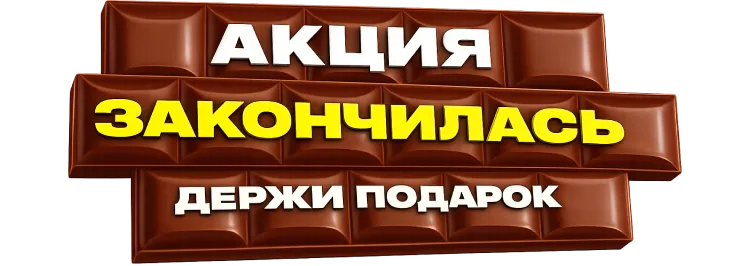
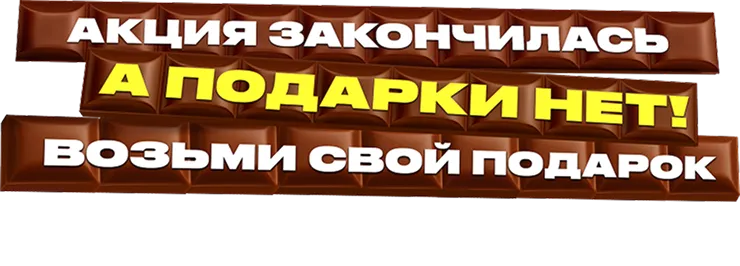
add presents

diff --git a/assets/css/styles.min.css b/assets/css/styles.min.css
@@ -1,1 +1,1 @@
-:root{--font: 'drukwide', sans-serif;--white: #ffffff;--black: #000000;--brown: #7e3d23;--red: #e30613;--red-bg: #c32822}:root{font-synthesis:none;text-rendering:optimizeLegibility;-webkit-font-smoothing:antialiased;-moz-osx-font-smoothing:grayscale;outline:none;-webkit-tap-highlight-color:rgba(0,0,0,0);-webkit-backface-visibility:hidden;backface-visibility:hidden}*,*:before,*:after{padding:0;margin:0;-webkit-box-sizing:border-box;box-sizing:border-box;-webkit-tap-highlight-color:rgba(0,0,0,0)}html,body{height:100%;z-index:0}body{width:100%;position:relative;overflow-x:hidden;overflow-y:auto;-ms-scroll-chaining:none;overscroll-behavior:none;-webkit-overflow-scrolling:auto;font-family:var(--font);background:var(--brown);color:var(--white)}img{display:block;-o-object-fit:cover;object-fit:cover;-webkit-user-select:none;-moz-user-select:none;-ms-user-select:none;user-select:none}h1,h2,h3,h4,h5,h6,strong{color:inherit}b{font-family:var(--font);font-weight:600}a{color:inherit;text-decoration:none}ul,ol,menu{list-style:none}button{position:relative;border:none;cursor:pointer;background:none;color:inherit}button:disabled{cursor:auto;pointer-events:none}.main{display:-webkit-box;display:-ms-flexbox;display:flex;-webkit-box-pack:center;-ms-flex-pack:center;justify-content:center;-webkit-box-align:start;-ms-flex-align:start;align-items:flex-start;-ms-flex-line-pack:start;align-content:flex-start;position:relative;width:100%;height:auto;min-height:calc(100svh - 120px);overflow:hidden;z-index:1}@media(max-height: 759px){.main{min-height:calc(100svh - 100px)}}.container{display:block;position:relative;margin:0 auto;width:100%;max-width:1200px;z-index:1}@media(max-width: 1279px){.container{max-width:100%;padding:0px 20px}}.preloader{display:-webkit-box;display:-ms-flexbox;display:flex;position:fixed;left:0px;top:0px;width:100%;height:100%;min-height:100dvh;-ms-flex-wrap:wrap;flex-wrap:wrap;-webkit-box-pack:center;-ms-flex-pack:center;justify-content:center;-webkit-box-align:center;-ms-flex-align:center;align-items:center;-ms-flex-line-pack:center;align-content:center;background:var(--brown);z-index:1000;opacity:1;visibility:visible;pointer-events:all;-webkit-transition:opacity .6s ease-out,visibility .6s ease-out;transition:opacity .6s ease-out,visibility .6s ease-out}.preloader:before{content:"";display:block;width:50px;height:50px;border-radius:50px;border-left:5px solid var(--white);border-right:5px solid rgba(0,0,0,0);border-top:5px solid var(--white);border-bottom:5px solid rgba(0,0,0,0);-webkit-animation:spin .4s linear infinite;animation:spin .4s linear infinite}.preloader.hidden{opacity:0;visibility:hidden;pointer-events:none}@-webkit-keyframes spin{from{-webkit-transform:rotate(0deg);transform:rotate(0deg)}to{-webkit-transform:rotate(360deg);transform:rotate(360deg)}}@keyframes spin{from{-webkit-transform:rotate(0deg);transform:rotate(0deg)}to{-webkit-transform:rotate(360deg);transform:rotate(360deg)}}@font-face{font-family:"drukwide";src:url("../fonts/druk-wide-super.woff2") format("woff2"),url("../fonts/druk-wide-super.woff") format("woff");font-weight:500;font-style:normal}.button{display:-webkit-box;display:-ms-flexbox;display:flex;position:relative;width:100%;max-width:288px;-ms-flex-wrap:wrap;flex-wrap:wrap;-webkit-box-pack:center;-ms-flex-pack:center;justify-content:center;-webkit-box-align:center;-ms-flex-align:center;align-items:center;-ms-flex-line-pack:center;align-content:center;padding:21px 58px calc(21px - .208em) 58px;background:var(--white);color:var(--red);border-radius:27px 0px 27px 0px;-webkit-transform:translate(0px, 20px);-ms-transform:translate(0px, 20px);transform:translate(0px, 20px);-webkit-transition:.5s ease-in-out;transition:.5s ease-in-out;opacity:0;cursor:auto;font-family:var(--font);text-transform:uppercase;pointer-events:none;font-size:18px;line-height:1.16;text-align:center;-webkit-box-shadow:0 8px 17px rgba(0,0,0,.1),0 32px 32px rgba(0,0,0,.09),0 71px 43px rgba(0,0,0,.05),0 127px 51px rgba(0,0,0,.01);box-shadow:0 8px 17px rgba(0,0,0,.1),0 32px 32px rgba(0,0,0,.09),0 71px 43px rgba(0,0,0,.05),0 127px 51px rgba(0,0,0,.01)}.hero{display:-webkit-box;display:-ms-flexbox;display:flex;position:relative;width:100%;height:auto;min-height:calc(100svh - 120px);-ms-flex-wrap:wrap;flex-wrap:wrap;-webkit-box-pack:center;-ms-flex-pack:center;justify-content:center;-webkit-box-align:center;-ms-flex-align:center;align-items:center;-ms-flex-line-pack:center;align-content:center;margin:auto;overflow:hidden}.hero:before{content:"";position:absolute;width:124vw;height:124vw;max-width:555px;max-height:555px;background:url("../img/svg/bg.svg") no-repeat center center/cover}@media(max-height: 759px)and (max-width: 374px){.hero:before{-webkit-transform:translate(0px, -50px);-ms-transform:translate(0px, -50px);transform:translate(0px, -50px)}}@media(max-height: 759px){.hero{min-height:calc(100svh - 100px)}}.hero__images{display:-webkit-box;display:-ms-flexbox;display:flex;position:relative;width:100%;min-height:460px;max-width:440px;-webkit-box-orient:vertical;-webkit-box-direction:normal;-ms-flex-direction:column;flex-direction:column;-webkit-box-pack:center;-ms-flex-pack:center;justify-content:center;-webkit-box-align:center;-ms-flex-align:center;align-items:center;-ms-flex-line-pack:center;align-content:center;padding-top:94px;padding-bottom:44px}@media(max-width: 374px){.hero__images{padding-top:88px}}@media(max-height: 759px){.hero__images{padding-bottom:0px}}.hero-image-title{display:none;width:84.0909%;max-width:370px}@media(max-height: 759px){.hero-image-title{max-width:286px}}.body[data-state=pending] .hero-image-title.start,.body[data-state=start] .hero-image-title.start{display:block}.body[data-state=finish] .hero-image-title.finish{display:block}.hero-image{position:relative;width:90%;max-width:410px;z-index:2}@media(max-width: 374px){.hero-image{margin-top:-22px}}@media(max-height: 759px){.hero-image{max-width:315px;margin-top:-22px}}.hero-image-left{display:block;position:absolute;left:10px;top:50%;z-index:3;width:50px}@media(max-height: 759px)and (max-width: 374px){.hero-image-left{top:62%;width:40px}}.hero-image-right{display:block;position:absolute;right:0px;top:50%;z-index:1;width:95px}@media(max-height: 759px)and (max-width: 374px){.hero-image-right{top:60%}}.header{display:-webkit-box;display:-ms-flexbox;display:flex;-webkit-box-align:start;-ms-flex-align:start;align-items:flex-start;-webkit-box-pack:justify;-ms-flex-pack:justify;justify-content:space-between;gap:26px;position:absolute;left:0px;top:0px;width:100%;height:auto;z-index:99;padding:20px}.header__hashtag{width:48.5%;max-width:194px}.header__logo{display:-webkit-box;display:-ms-flexbox;display:flex;width:45%;max-width:180px;-webkit-box-orient:vertical;-webkit-box-direction:normal;-ms-flex-direction:column;flex-direction:column;gap:4px;-webkit-box-pack:center;-ms-flex-pack:center;justify-content:center;-webkit-box-align:center;-ms-flex-align:center;align-items:center;-ms-flex-line-pack:center;align-content:center}.header__logo img{width:100%}.header__logo span{font-size:11px;text-align:center;line-height:1.2;letter-spacing:.05em}@media(max-width: 374px){.header__logo span{font-size:10px}}.footer{display:-webkit-box;display:-ms-flexbox;display:flex;position:relative;width:100%;height:120px;z-index:2}@media(max-height: 759px){.footer{height:100px}}.footer-content{display:-webkit-box;display:-ms-flexbox;display:flex;-webkit-box-pack:center;-ms-flex-pack:center;justify-content:center;-webkit-box-align:end;-ms-flex-align:end;align-items:flex-end;padding:40px 20px;position:absolute;overflow:hidden;width:100%;max-width:100%;height:350px;bottom:0px;background:url("../img/svg/footer-bg.svg") no-repeat center top;background-size:1104px 100%}@media(min-width: 1104px){.footer-content{background-size:100% 100%}}@media(max-height: 759px){.footer-content{height:200px}}.body.loaded[data-state=start] .footer .button,.body.loaded[data-state=finish] .footer .button{cursor:pointer;pointer-events:all;opacity:1;-webkit-transform:translate(0px, 0px);-ms-transform:translate(0px, 0px);transform:translate(0px, 0px)}
+:root{--font: 'drukwide', sans-serif;--white: #ffffff;--black: #000000;--brown: #7e3d23;--red: #e30613;--red-bg: #c32822}:root{font-synthesis:none;text-rendering:optimizeLegibility;-webkit-font-smoothing:antialiased;-moz-osx-font-smoothing:grayscale;outline:none;-webkit-tap-highlight-color:rgba(0,0,0,0);-webkit-backface-visibility:hidden;backface-visibility:hidden}*,*:before,*:after{padding:0;margin:0;-webkit-box-sizing:border-box;box-sizing:border-box;-webkit-tap-highlight-color:rgba(0,0,0,0)}html,body{height:100%;z-index:0}body{width:100%;position:relative;overflow-x:hidden;overflow-y:auto;-ms-scroll-chaining:none;overscroll-behavior:none;-webkit-overflow-scrolling:auto;font-family:var(--font);background:var(--brown);color:var(--white)}img{display:block;-o-object-fit:cover;object-fit:cover;-webkit-user-select:none;-moz-user-select:none;-ms-user-select:none;user-select:none}h1,h2,h3,h4,h5,h6,strong{color:inherit}b{font-family:var(--font);font-weight:600}a{color:inherit;text-decoration:none}ul,ol,menu{list-style:none}button{position:relative;border:none;cursor:pointer;background:none;color:inherit}button:disabled{cursor:auto;pointer-events:none}.main{display:-webkit-box;display:-ms-flexbox;display:flex;-webkit-box-pack:center;-ms-flex-pack:center;justify-content:center;-webkit-box-align:start;-ms-flex-align:start;align-items:flex-start;-ms-flex-line-pack:start;align-content:flex-start;position:relative;width:100%;height:auto;min-height:calc(100svh - 120px);overflow:hidden;z-index:1}@media(max-height: 759px){.main{min-height:calc(100svh - 100px)}}.container{display:block;position:relative;margin:0 auto;width:100%;max-width:1200px;z-index:1}@media(max-width: 1279px){.container{max-width:100%;padding:0px 20px}}.preloader{display:-webkit-box;display:-ms-flexbox;display:flex;position:fixed;left:0px;top:0px;width:100%;height:100%;min-height:100dvh;-ms-flex-wrap:wrap;flex-wrap:wrap;-webkit-box-pack:center;-ms-flex-pack:center;justify-content:center;-webkit-box-align:center;-ms-flex-align:center;align-items:center;-ms-flex-line-pack:center;align-content:center;background:var(--brown);z-index:1000;opacity:1;visibility:visible;pointer-events:all;-webkit-transition:opacity .6s ease-out,visibility .6s ease-out;transition:opacity .6s ease-out,visibility .6s ease-out}.preloader:before{content:"";display:block;width:50px;height:50px;border-radius:50px;border-left:5px solid var(--white);border-right:5px solid rgba(0,0,0,0);border-top:5px solid var(--white);border-bottom:5px solid rgba(0,0,0,0);-webkit-animation:spin .4s linear infinite;animation:spin .4s linear infinite}.preloader.hidden{opacity:0;visibility:hidden;pointer-events:none}@-webkit-keyframes spin{from{-webkit-transform:rotate(0deg);transform:rotate(0deg)}to{-webkit-transform:rotate(360deg);transform:rotate(360deg)}}@keyframes spin{from{-webkit-transform:rotate(0deg);transform:rotate(0deg)}to{-webkit-transform:rotate(360deg);transform:rotate(360deg)}}@font-face{font-family:"drukwide";src:url("../fonts/druk-wide-super.woff2") format("woff2"),url("../fonts/druk-wide-super.woff") format("woff");font-weight:500;font-style:normal}.button{display:-webkit-box;display:-ms-flexbox;display:flex;position:relative;width:100%;max-width:288px;-ms-flex-wrap:wrap;flex-wrap:wrap;-webkit-box-pack:center;-ms-flex-pack:center;justify-content:center;-webkit-box-align:center;-ms-flex-align:center;align-items:center;-ms-flex-line-pack:center;align-content:center;padding:21px 58px calc(21px - .208em) 58px;background:var(--white);color:var(--red);border-radius:27px 0px 27px 0px;-webkit-transform:translate(0px, 20px);-ms-transform:translate(0px, 20px);transform:translate(0px, 20px);-webkit-transition:.5s ease-in-out;transition:.5s ease-in-out;opacity:0;cursor:auto;font-family:var(--font);text-transform:uppercase;pointer-events:none;font-size:18px;line-height:1.16;text-align:center;-webkit-box-shadow:0 8px 17px rgba(0,0,0,.1),0 32px 32px rgba(0,0,0,.09),0 71px 43px rgba(0,0,0,.05),0 127px 51px rgba(0,0,0,.01);box-shadow:0 8px 17px rgba(0,0,0,.1),0 32px 32px rgba(0,0,0,.09),0 71px 43px rgba(0,0,0,.05),0 127px 51px rgba(0,0,0,.01)}.hero{display:-webkit-box;display:-ms-flexbox;display:flex;position:relative;width:100%;height:auto;min-height:calc(100svh - 120px);-ms-flex-wrap:wrap;flex-wrap:wrap;-webkit-box-pack:center;-ms-flex-pack:center;justify-content:center;-webkit-box-align:center;-ms-flex-align:center;align-items:center;-ms-flex-line-pack:center;align-content:center;margin:auto;overflow:hidden}.hero:before{content:"";position:absolute;width:124vw;height:124vw;max-width:555px;max-height:555px;background:url("../img/svg/bg.svg") no-repeat center center/cover}@media(max-height: 759px)and (max-width: 374px){.hero:before{-webkit-transform:translate(0px, -50px);-ms-transform:translate(0px, -50px);transform:translate(0px, -50px)}}@media(max-height: 759px){.hero{min-height:calc(100svh - 100px)}}.hero__images{display:-webkit-box;display:-ms-flexbox;display:flex;position:relative;width:100%;min-height:460px;max-width:440px;-webkit-box-orient:vertical;-webkit-box-direction:normal;-ms-flex-direction:column;flex-direction:column;-webkit-box-pack:center;-ms-flex-pack:center;justify-content:center;-webkit-box-align:center;-ms-flex-align:center;align-items:center;-ms-flex-line-pack:center;align-content:center;padding-top:94px;padding-bottom:44px}@media(max-width: 374px){.hero__images{padding-top:88px}}@media(max-height: 759px){.hero__images{padding-bottom:0px}}.hero-image-title{display:none;width:84.0909%;max-width:370px}@media(max-height: 759px){.hero-image-title{max-width:286px}.hero-image-title.finish{max-width:314px}}.body[data-state=pending] .hero-image-title.start,.body[data-state=start] .hero-image-title.start{display:block}.body[data-state=finish] .hero-image-title.finish{display:block}.hero-image{position:relative;width:90%;max-width:410px;z-index:2}@media(max-width: 374px){.hero-image{margin-top:-22px}}@media(max-height: 759px){.hero-image{max-width:315px;margin-top:-22px}}.hero-image-left{display:block;position:absolute;left:10px;top:50%;z-index:3;width:50px}@media(max-height: 759px)and (max-width: 374px){.hero-image-left{top:62%;width:40px}}.hero-image-right{display:block;position:absolute;right:0px;top:50%;z-index:1;width:95px}@media(max-height: 759px)and (max-width: 374px){.hero-image-right{top:60%}}.header{display:-webkit-box;display:-ms-flexbox;display:flex;-webkit-box-align:start;-ms-flex-align:start;align-items:flex-start;-webkit-box-pack:justify;-ms-flex-pack:justify;justify-content:space-between;gap:26px;position:absolute;left:0px;top:0px;width:100%;height:auto;z-index:99;padding:20px}.header__hashtag{width:48.5%;max-width:194px}.header__logo{display:-webkit-box;display:-ms-flexbox;display:flex;width:45%;max-width:180px;-webkit-box-orient:vertical;-webkit-box-direction:normal;-ms-flex-direction:column;flex-direction:column;gap:4px;-webkit-box-pack:center;-ms-flex-pack:center;justify-content:center;-webkit-box-align:center;-ms-flex-align:center;align-items:center;-ms-flex-line-pack:center;align-content:center}.header__logo img{width:100%}.header__logo span{font-size:11px;text-align:center;line-height:1.2;letter-spacing:.05em}@media(max-width: 374px){.header__logo span{font-size:10px}}.footer{display:-webkit-box;display:-ms-flexbox;display:flex;position:relative;width:100%;height:120px;z-index:2}@media(max-height: 759px){.footer{height:100px}}.footer-content{display:-webkit-box;display:-ms-flexbox;display:flex;-webkit-box-pack:center;-ms-flex-pack:center;justify-content:center;-webkit-box-align:end;-ms-flex-align:end;align-items:flex-end;padding:40px 20px;position:absolute;overflow:hidden;width:100%;max-width:100%;height:350px;bottom:0px;background:url("../img/svg/footer-bg.svg") no-repeat center top;background-size:1104px 100%}@media(min-width: 1104px){.footer-content{background-size:100% 100%}}@media(max-height: 759px){.footer-content{height:200px}}.body.loaded[data-state=start] .footer .button,.body.loaded[data-state=finish] .footer .button{cursor:pointer;pointer-events:all;opacity:1;-webkit-transform:translate(0px, 0px);-ms-transform:translate(0px, 0px);transform:translate(0px, 0px)}

diff --git a/assets/js/scripts.js b/assets/js/scripts.js
@@ -1,8 +1,8 @@
-const START_DATE = '26.02.2026 09:11'; // Дата и время начала акции
-const FINISH_DATE = '26.02.2026 09:12'; // Дата и время окончания акции
-const PRESENTS_FORMAT = 'webp'; // Формат изображений подарков (мкмов)
-
 import { hidePreloader, initRandomPresent, initDateTimer } from './helpers.js';
+
+const START_DATE = '01.03.2026 00:00'; // Дата и время начала акции
+const FINISH_DATE = '01.05.2050 23:59'; // Дата и время окончания акции
+const PRESENTS_FORMAT = 'jpg'; // Формат изображений подарков (мкмов)
 
 initRandomPresent(PRESENTS_FORMAT);
 initDateTimer(START_DATE, FINISH_DATE);

diff --git a/assets/js/helpers.js b/assets/js/helpers.js
@@ -14,13 +14,13 @@ export const hidePreloader = () => {
   }, 1000);
 };
 
-export const initRandomPresent = (format = 'webp') => {
+export const initRandomPresent = (format = 'jpg') => {
   const btn = document.querySelector('[data-present]');
 
   if (!btn) return;
 
   const falderUrl = btn.getAttribute('href');
-  const presentNumber = Math.floor(Math.random() * 5) + 1;
+  const presentNumber = Math.floor(Math.random() * 8) + 1;
   const newHref = `${falderUrl}/${presentNumber}.${format}`;
 
   btn.setAttribute('href', newHref);

diff --git a/assets/css/styles.css b/assets/css/styles.css
@@ -333,6 +333,9 @@ button:disabled {
   .hero-image-title {
     max-width: 286px;
   }
+  .hero-image-title.finish {
+    max-width: 314px;
+  }
 }
 
 .body[data-state=pending] .hero-image-title.start,

diff --git a/assets/scss/_hero.scss b/assets/scss/_hero.scss
@@ -53,6 +53,9 @@
   max-width: 370px;
   @media (max-height: 759px) {
     max-width: 286px;
+    &.finish {
+      max-width: 314px;
+    }
   }
 }
 
